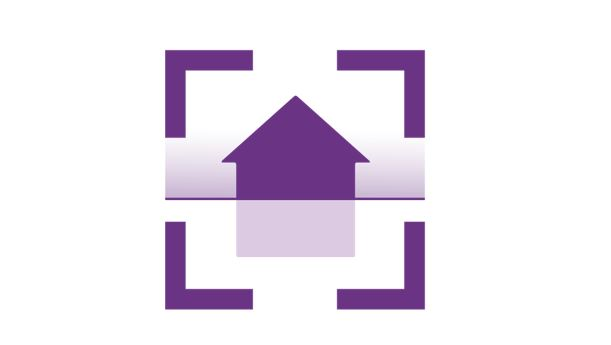
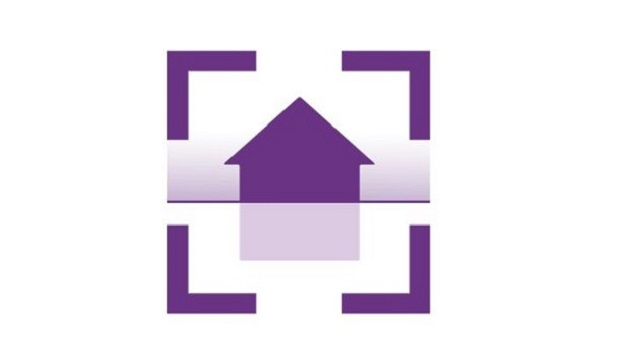
imgsize-2

diff --git a/index.html b/index.html
@@ -223,7 +223,7 @@
             
                 <div class="col-lg-4 col-sm-6">
                     <a href="#portfolioModal2" class="portfolio-box portfolio-link" data-toggle="modal">
-                        <img src="img/portfolio/2-1.jpg" class="img-responsive" alt="">
+                        <img src="img/portfolio/2.jpg" height=343px class="img-responsive" alt="">
                         
                             <div class="portfolio-box-caption">
                                 <div class="portfolio-box-caption-content">
@@ -246,7 +246,7 @@
             
                 <div class="col-lg-4 col-sm-6">
                     <a href="#portfolioModal3" class="portfolio-box portfolio-link" data-toggle="modal">
-                        <img src="img/portfolio/3.jpg" class="img-responsive" alt="">
+                        <img src="img/portfolio/3.jpg" height=343px class="img-responsive" alt="">
                         
                             <div class="portfolio-box-caption">
                                 <div class="portfolio-box-caption-content">
@@ -276,7 +276,7 @@
         
 
         
-            ASIDE
+    
 <aside class="bg-dark">
     <div class="container text-center">
         <div class="call-to-action">
